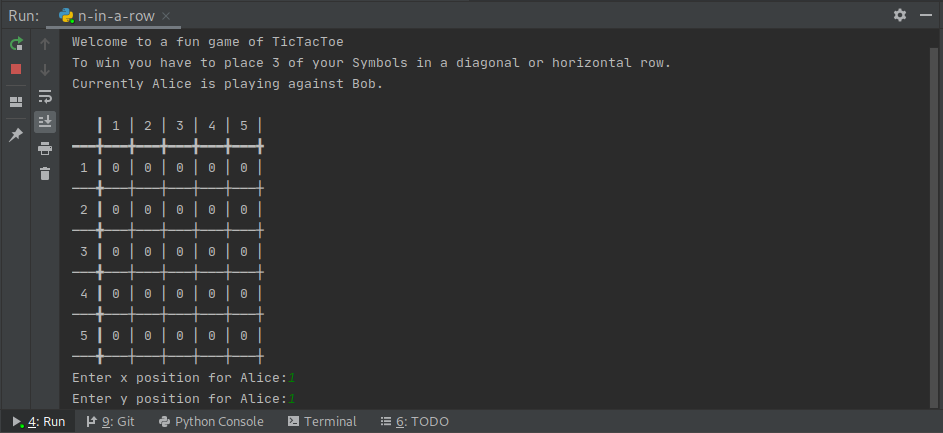
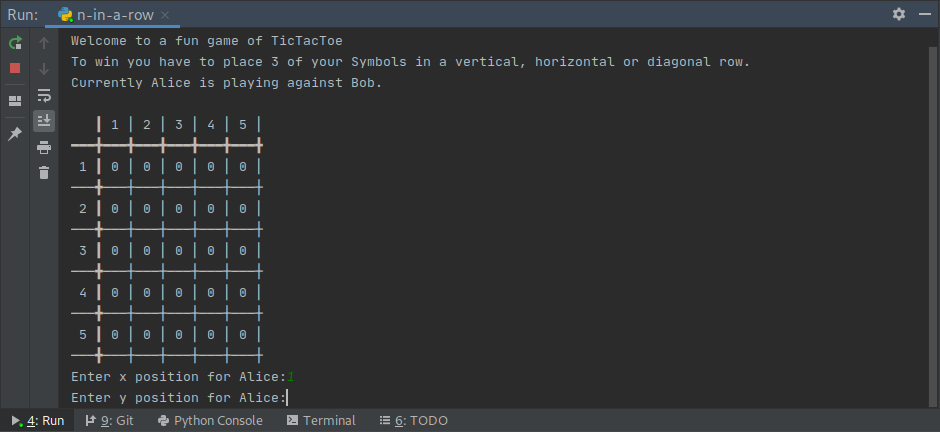
Changed Welcome message.

diff --git a/n-in-a-row.py b/n-in-a-row.py
@@ -80,7 +80,7 @@ class game:     # class containing all game assets and mainloop
             rownr += 1  # Number of next row
     def play(self):         # function containing mainloop
         print('Welcome to a fun game of TicTacToe')   # welcome to play my game
-        print('To win you have to place',game.inarow,'of your Symbols in a diagonal or horizontal row.')
+        print('To win you have to place',game.inarow,'of your Symbols in a vertical, horizontal or diagonal row.')
         print('Currently',player1.name,'is playing against',player2.name +'.\n')
         self.printmap()     # print first map
         while count(self.map, 0) > 0:   # the game runs until all fields are filed
